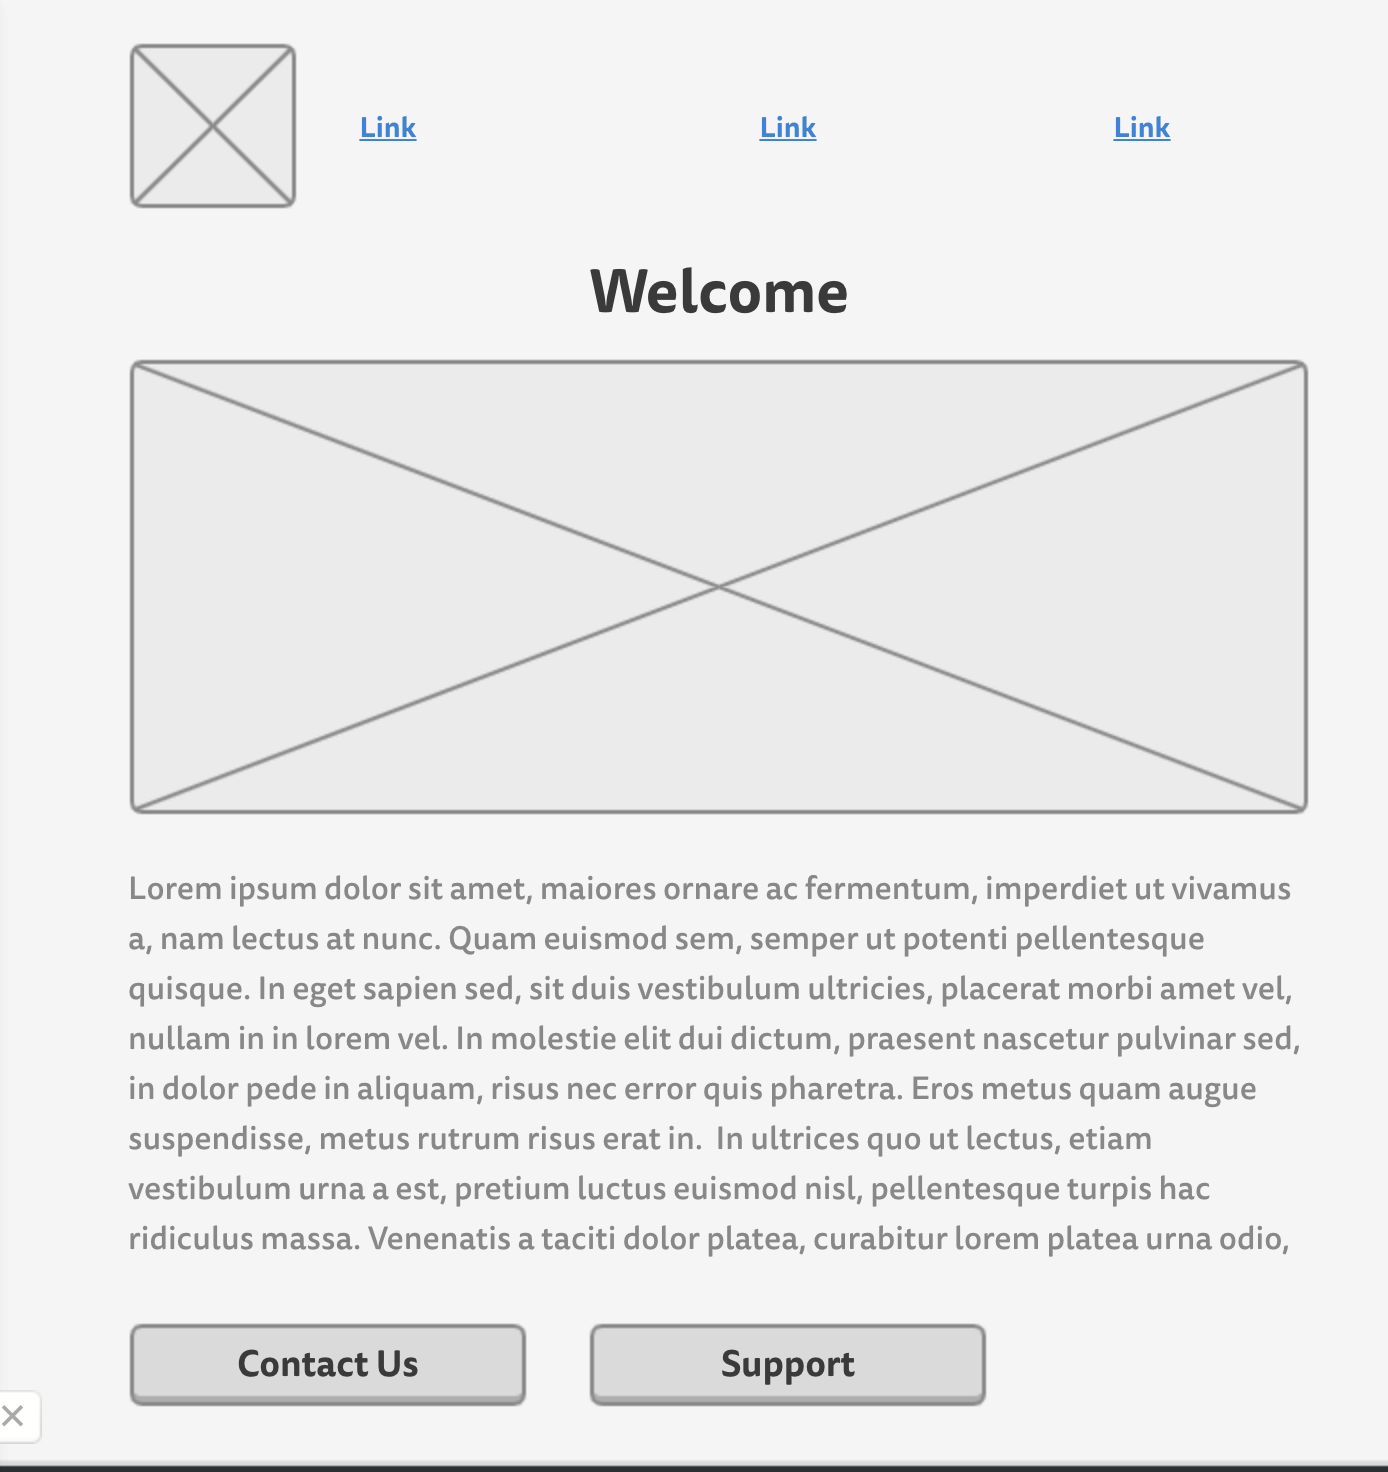
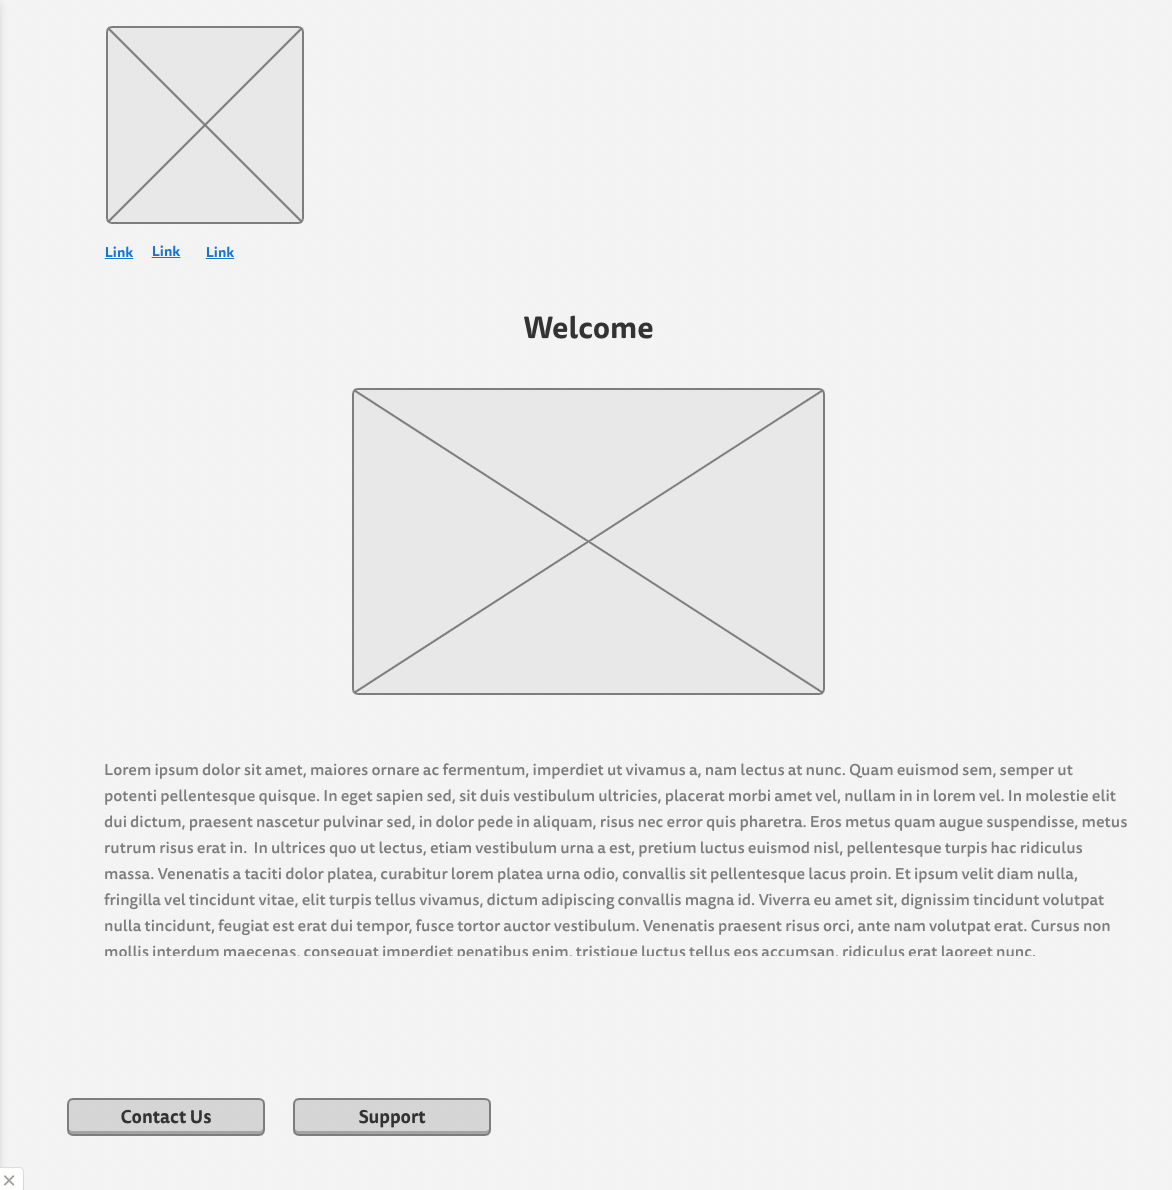
changes

diff --git a/minimalist/aboutus.html b/minimalist/aboutus.html
@@ -5,6 +5,7 @@
     <meta http-equiv="X-UA-Compatible" content="IE=edge">
     <meta name="viewport" content="width=device-width, initial-scale=1.0">
     <title>Document</title>
+    <link rel="stylesheet" href="styles/index.css">
 </head>
 <body>
     <header class="head">
@@ -14,15 +15,22 @@
             <a href="aboutus.html">About Us</a>
             <a href="gallery.html">Gallery</a>
         </nav>
-        <main>
-            <img class="picture1" src="images/logo.png" alt="Dry Oar Logo">
-            <p>
-                asdfasd
-            </p>
-            <p>
-                adfasdfas
-            </p>
-            <img class="picture2" src="images/logo.png" alt="Dry Oar Logo">
-        </main>
-
     </header>
+    <div class="content2">
+            <main>
+                <img class="picture1" src="images/cup_of_tea.jpg" alt="Dry Oar Logo">
+                <p class="paragraph1">
+                    In simplify our mission has been to provide the best quality of service and product. This is our mission and our vision is to get to almost every person in the world that needs a website. We want to inspire people to continue to expand their horizons and to improve their creativity. And all of this can be done through Simplify.
+                </p>
+                <p class="paragraph2">
+                    We appreciate the fact that you chose us as your main source of inspiration and help. We believe in embracing what you want to be and we enjoy helping those who are in need. Come and try our product and if you do not enjoy this we give you your money back 100% guarantee. 
+                </p>
+                <img class="picture2" src="images/model.jpg" alt="Dry Oar Logo">
+            </main>
+    </div>
+    <footer id="footer">
+        <button><a href="contacts us.html">Contact Us</a></button>  
+        <button><a href="support.html">Support</a></button>
+    </footer>
+</body>
+</html>

diff --git a/minimalist/gallery.html b/minimalist/gallery.html
@@ -1,0 +1,39 @@
+<!DOCTYPE html>
+<html lang="en">
+<head>
+    <meta charset="UTF-8">
+    <meta http-equiv="X-UA-Compatible" content="IE=edge">
+    <meta name="viewport" content="width=device-width, initial-scale=1.0">
+    <title>Document</title>
+    <link rel="stylesheet" href="styles/index.css">
+</head>
+<body>
+    <header class="head">
+        <img class=logo src="images/Simplify.png" alt="logo">
+        <nav>
+            <a href="home.html">Home</a>
+            <a href="aboutus.html">About Us</a>
+            <a href="gallery.html">Gallery</a>
+        </nav>
+    </header>
+            <main> 
+                <div class="content3">
+                    <img class="picture4" src="images/abstract.jpg" alt="Dry Oar Logo">
+                    <img class="picture5" src="images/soumaya.jpg" alt="Dry Oar Logo">
+                    <img class="picture6" src="images/station.jpg" alt="Dry Oar Logo">
+                    <img class="picture7" src="images/scraper.jpg" alt="Dry Oar Logo">
+                    <img class="picture8" src="images/stairs.jpg" alt="Dry Oar Logo">
+                    <img class="picture9" src="images/chair.jpg" alt="Dry Oar Logo">
+                </div>
+                <p class="paragraph1">
+                    Make sure to check us out and to contact us, either via email or in the contact us button down bellow! Thank you very much for choosing we hope you are very happy with your service!
+                </p>
+            </main>
+
+    
+    <footer id="footer">
+        <button><a href="contacts us.html">Contact Us</a></button>  
+        <button><a href="support.html">Support</a></button>
+    </footer>
+</body>
+</html>

diff --git a/minimalist/index.html b/minimalist/index.html
@@ -1,0 +1,35 @@
+<!DOCTYPE html>
+<html lang="en">
+<head>
+    <meta charset="UTF-8">
+    <meta http-equiv="X-UA-Compatible" content="IE=edge">
+    <meta name="viewport" content="width=device-width, initial-scale=1.0">
+    <title>Document</title>
+    <link rel="stylesheet" href="styles/index.css">
+</head>
+<body>
+    <div id="content">
+        <header>
+            <img class="logo" src="images/Simplify.png" alt="logo">
+            <nav class="links">
+                <button><a href="index.html" >Home</a></button>
+                <button><a href="aboutus.html">About Us</a></button>
+                <button><a href="gallery.html">Gallery</a></button>
+            </nav>
+
+        </header>
+        <main>
+            <p>Welcome</p>
+            <img class="minimalistic_website" src="images/minimalistic_website_1.jpeg" alt="minimalistic_website">
+            <p>
+                Welcome to Simplify, where everything is beautifuly simple and simply beautiful. Ever wanted a website that is simple and not cluttered? We are the experts here. We take a simple idea for a website and we turn it into something that represents your brand and your product in a clear and concise way. This helps you and your future customers so that they are not overwhelmedand there is no thinking paralysis. Having the website that you need has never been so easy!
+            </p>
+        </main>
+    </div>
+    <footer id="footer">
+        <button><a href="contacts us.html">Contact Us</a></button>  
+        <button><a href="support.html">Support</a></button>
+    </footer>
+</body>
+</html>
+

diff --git a/minimalist/styles/index.css b/minimalist/styles/index.css
@@ -1,0 +1,109 @@
+main {
+    max-width: 1200px;
+}
+
+#content {
+    max-width: 1200px;
+    margin: 0 auto;
+    padding: 70px;
+    display:grid;
+}
+
+body {
+    background-color:rgb(183, 179, 175);
+}
+
+.links{
+    color: black;
+}
+
+main p{
+    text-align: center;
+    font-size: 25px;
+}
+
+#logo {
+    min-width: 100px;
+    max-width: 1200px;
+    align-content: center;
+}
+
+.minimalistic_website {
+    /* display: flex;
+    align-items: center; */
+    margin: 0 auto;
+    display: block;
+
+}
+
+#footer h3{
+    text-align: center;
+}
+
+.links {
+    padding-top: 5px;
+    justify-self: center;
+    align-self: center;
+}
+
+
+.picture1 {
+    max-width: 100%;
+    margin: 50px;
+    grid-column: 1/2;
+    grid-row: 1/2;
+}
+
+.picture2 {
+    max-width: 100%;
+    grid-column: 1/2;
+    grid-row: 3/4;
+
+}
+
+.paragraph1 {
+    grid-column: 1/2;
+    grid-row: 2/4;
+}
+
+.paragraph2 {
+    grid-column: 2/3;
+    grid-row: 1/3;
+} 
+
+.picture4 {
+    max-width: 250px;
+    margin: 50px;
+    grid-column: 1/2;
+    grid-row: 1/2;
+}
+.picture5 {
+    max-width: 250px;
+    margin: 50px;
+    grid-column: 1/2;
+    grid-row: 1/2;
+}
+.picture6 {
+    max-width: 250px;
+    margin: 50px;
+    grid-column: 1/2;
+    grid-row: 1/2;
+}
+.picture7 {
+    max-width: 250px;
+    margin: 50px;
+    grid-column: 1/2;
+    grid-row: 1/2;
+}
+.picture8 {
+    max-width: 250px;
+    margin: 50px;
+    grid-column: 1/2;
+    grid-row: 1/2;
+}
+.picture9 {
+    max-width: 250px;
+    margin: 50px;
+    grid-column: 1/2;
+    grid-row: 1/2;
+}

diff --git a/minimalist/site-plan.html b/minimalist/site-plan.html
@@ -172,13 +172,13 @@
       <p>         
         This is where you will see more about us
       </p>
-      <img src="images/Page2.jpg" alt="page 2 wireframe">
+      <img src="images/about-us.jpg" alt="page 2 wireframe">
 
       <h3>Gallery</h3>
       <p>         
         There is where you will see more about our work in gallery form.
       </p>
-      <img src="images/Page3.jpg" alt="page 3 wireframe">
+      <img src="images/gallery.jpg" alt="page 3 wireframe">
     </main>
   </body>
 
